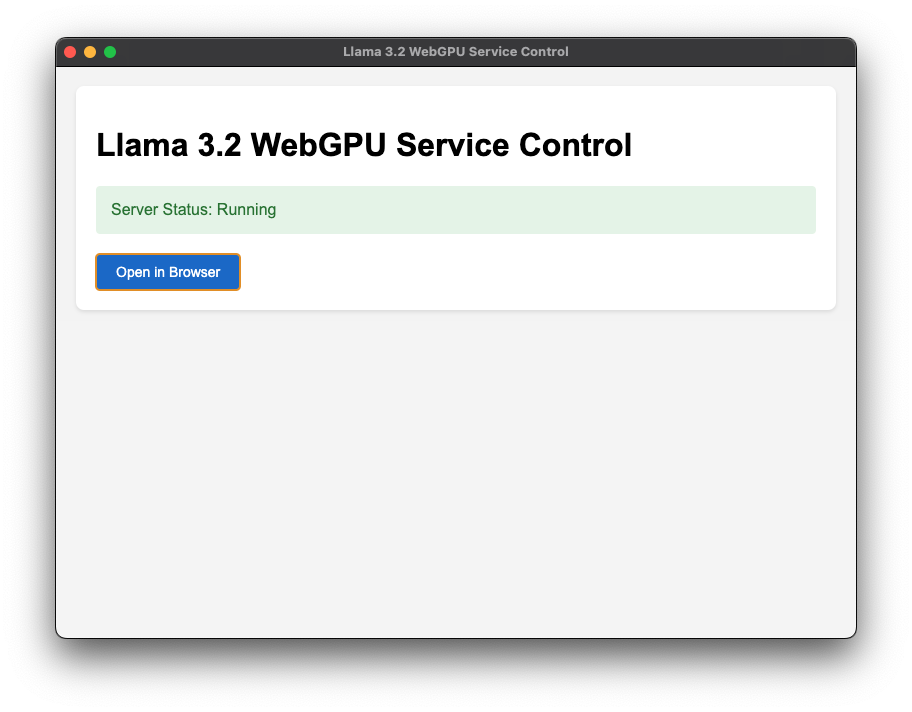
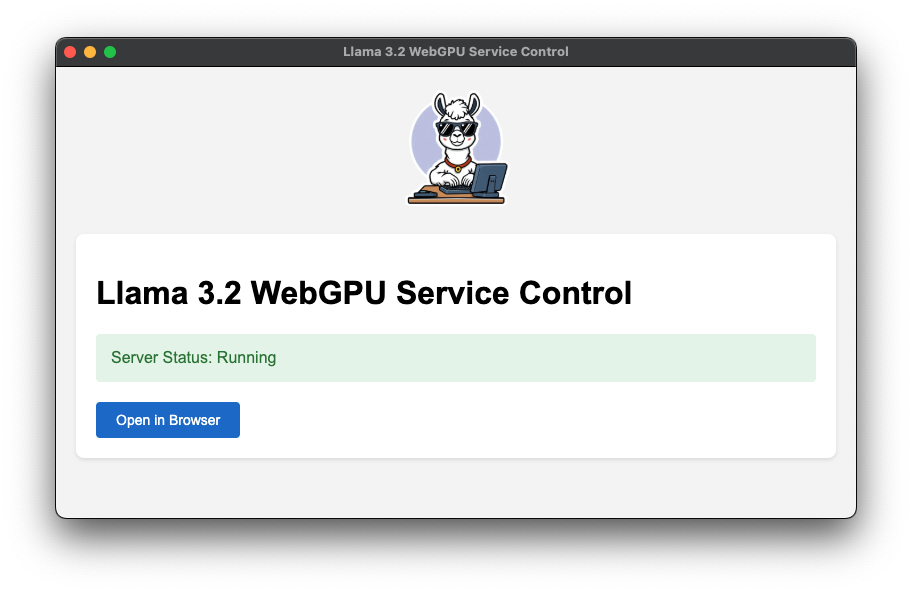
修正錯誤，可以建置並直接使用。

diff --git a/llama-3.2-webgpu/control.html b/llama-3.2-webgpu/control.html
@@ -9,6 +9,13 @@
             margin: 20px;
             background-color: #f5f5f5;
         }
+        .logo {
+            display: block;
+            margin: 0 auto;
+            width: 128px;  /* 設置合適的寬度 */
+            height: auto; /* 保持寬高比 */
+            margin-bottom: 20px; /* 增加一些底部間距 */
+        }
         .container {
             max-width: 800px;
             margin: 0 auto;
@@ -45,6 +52,7 @@
     </style>
 </head>
 <body>
+    <img src="public/logo.png" alt="Logo" class="logo" />
     <div class="container">
         <h1>Llama 3.2 WebGPU Service Control</h1>
         <div id="serverStatus" class="status running">

diff --git a/llama-3.2-webgpu/src/main.js b/llama-3.2-webgpu/src/main.js
@@ -13,7 +13,7 @@ let viteProcess = null;
 const createWindow = () => {
   mainWindow = new BrowserWindow({
     width: 800,
-    height: 600,
+    height: 480,
     webPreferences: {
       nodeIntegration: true,
       contextIsolation: false
@@ -31,7 +31,7 @@ const startViteServer = () => {
   
   // 等待vite服務器啟動
   return new Promise((resolve) => {
-    setTimeout(resolve, 3000);
+    setTimeout(resolve, 5173);
   });
 };
 

diff --git a/llama-3.2-webgpu/README.md b/llama-3.2-webgpu/README.md
@@ -14,10 +14,10 @@ A desktop application built with Electron that provides a convenient interface f
 ## Screenshots
 
 Control Interface:
-![Control Interface](./doc/llama3.2-electron.png)
+
 
 Browser Interface:
-![Browser Interface](./doc/llama3.2-electron2.png)
+
 
 ## System Requirements
 
@@ -61,6 +61,7 @@ npm run make
 ## Technical Architecture
 
 ### Core Components
+
 - Frontend: React + Vite
 - Desktop Framework: Electron
 - AI Processing: WebGPU
@@ -68,6 +69,7 @@ npm run make
 - Styling: Tailwind CSS
 
 ### Directory Structure
+
 ```
 llama-3.2-webgpu/
 ├── src/
@@ -82,19 +84,24 @@ llama-3.2-webgpu/
 ## Development Guide
 
 ### Development Mode
+
 ```bash
 npm run electron:dev
 ```
+
 This will:
+
 - Start Vite dev server
 - Launch Electron app
 - Enable hot reload
 
 ### Production Build
+
 ```bash
 npm run build
 npm run make
 ```
+
 Packaged application will be in the `out` directory.
 
 ## Contributing
